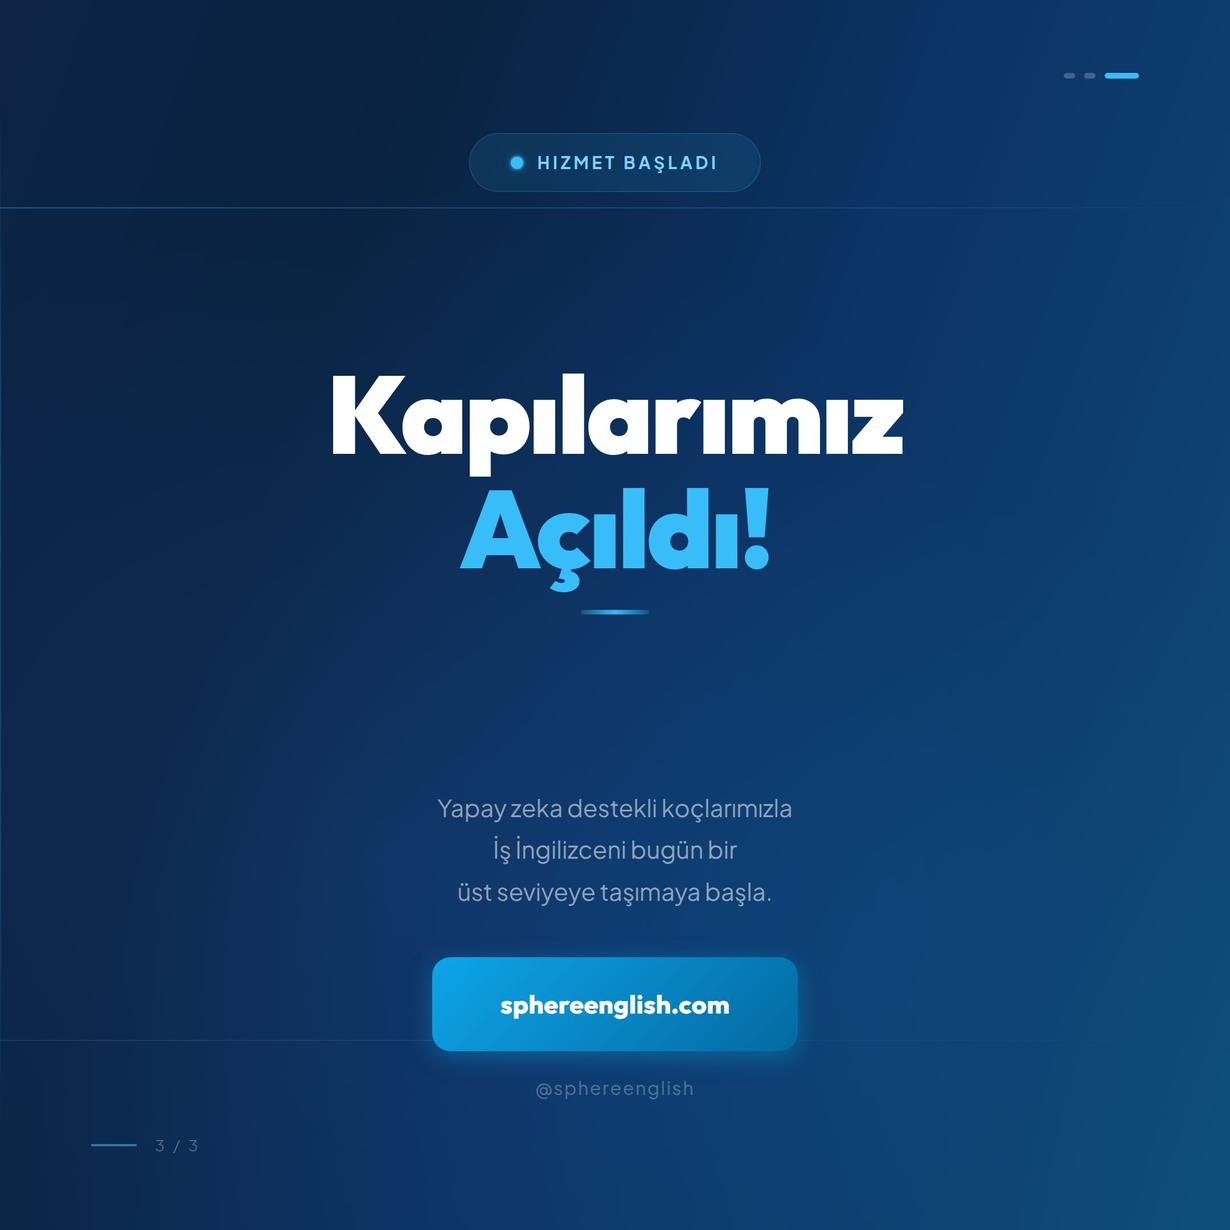
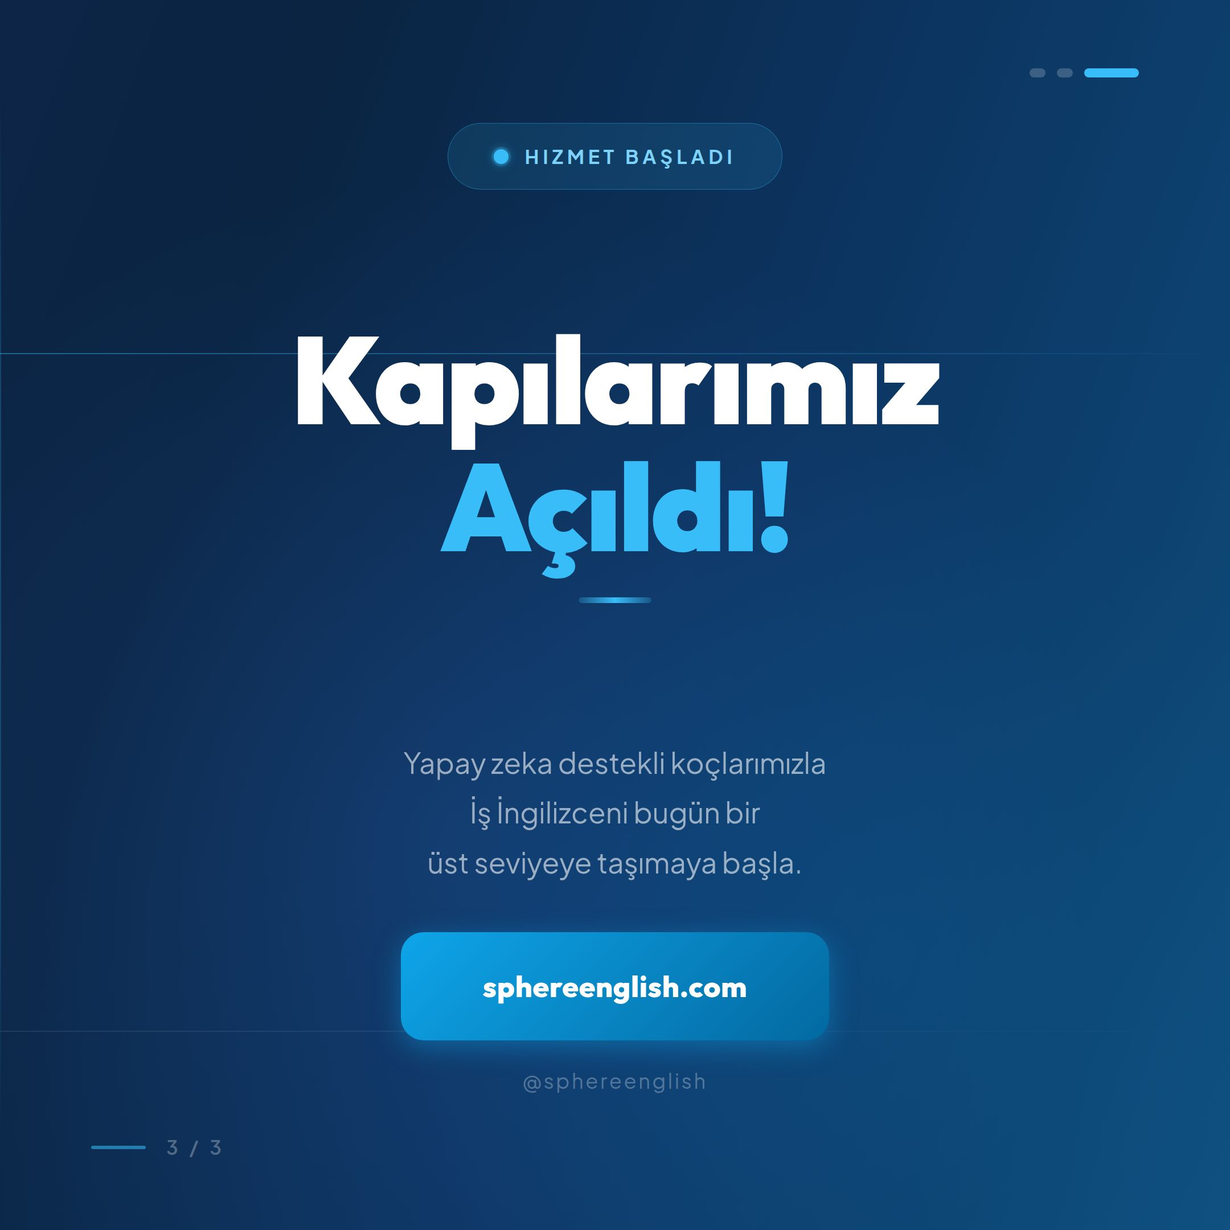
Enhance visual appeal and clarity of all three Instagram post panels
Update component styling and image assets to improve the visibility of logos, adjust font sizes, and refine spacing across all three Instagram post panels, ensuring a more polished and impactful presentation.

Replit-Commit-Author: Agent
Replit-Commit-Session-Id: 7828208e-226c-43ef-9a3e-875997ce7956
Replit-Commit-Checkpoint-Type: full_checkpoint
Replit-Commit-Event-Id: 44ebabdd-7dbf-48dc-a829-ad43afa8b230
Replit-Commit-Screenshot-Url: https://storage.googleapis.com/screenshot-production-us-central1/f780e6cf-cd3b-477f-8b05-3e4b163e7069/7828208e-226c-43ef-9a3e-875997ce7956/HKn518P
Replit-Helium-Checkpoint-Created: true

diff --git a/artifacts/mockup-sandbox/src/components/mockups/instagram-post/TrilogyPost.tsx b/artifacts/mockup-sandbox/src/components/mockups/instagram-post/TrilogyPost.tsx
@@ -2,136 +2,142 @@ const S = 2;
 const px = (n: number) => n * S;
 const W = 1080;
 
-const ACCENT = "#38bdf8";
+const ACCENT  = "#38bdf8";
 const ACCENT2 = "#0ea5e9";
-const WHITE = "#ffffff";
-const MUTED = "rgba(255,255,255,0.55)";
+const WHITE   = "#ffffff";
+const MUTED   = "rgba(255,255,255,0.58)";
 
+/* ── Panel dot indicator ── */
 const PanelDots = ({ current }: { current: number }) => (
-  <div style={{ display: "flex", gap: px(8) }}>
+  <div style={{ display: "flex", gap: px(10), alignItems: "center" }}>
     {[1, 2, 3].map((i) => (
       <div key={i} style={{
-        width: i === current ? px(30) : px(10),
-        height: px(5),
-        borderRadius: px(3),
-        background: i === current ? ACCENT : "rgba(255,255,255,0.22)",
+        width:  i === current ? px(48) : px(14),
+        height: px(8),
+        borderRadius: px(4),
+        background: i === current ? ACCENT : "rgba(255,255,255,0.20)",
       }} />
     ))}
   </div>
 );
 
+/* ── Bottom "N / 3" label ── */
 const BottomLine = ({ n }: { n: number }) => (
-  <div style={{ display: "flex", alignItems: "center", gap: px(16) }}>
-    <div style={{ width: px(40), height: px(2), background: `rgba(56,189,248,0.55)` }} />
+  <div style={{ display: "flex", alignItems: "center", gap: px(18) }}>
+    <div style={{ width: px(48), height: px(3), background: `rgba(56,189,248,0.55)`, borderRadius: px(2) }} />
     <span style={{
-      fontSize: px(14), color: "rgba(255,255,255,0.28)",
-      letterSpacing: "0.18em", textTransform: "uppercase",
-      fontFamily: '"Plus Jakarta Sans", sans-serif',
+      fontSize: px(17), color: "rgba(255,255,255,0.30)",
+      letterSpacing: "0.2em", textTransform: "uppercase",
+      fontFamily: '"Plus Jakarta Sans", sans-serif', fontWeight: 600,
     }}>{n} / 3</span>
   </div>
 );
 
-const Pill = ({ children }: { children: React.ReactNode }) => (
+/* ── Industry tag chip ── */
+const Tag = ({ label }: { label: string }) => (
   <div style={{
-    display: "inline-flex", alignItems: "center", gap: px(10),
-    background: "rgba(56,189,248,0.10)", border: `1px solid rgba(56,189,248,0.30)`,
-    borderRadius: px(100), padding: `${px(12)}px ${px(28)}px`,
-    alignSelf: "flex-start",
-  }}>
-    {children}
-  </div>
+    display: "inline-flex", alignItems: "center",
+    background: "rgba(255,255,255,0.06)",
+    border: "1px solid rgba(255,255,255,0.12)",
+    borderRadius: px(100), padding: `${px(10)}px ${px(22)}px`,
+    fontSize: px(17), fontWeight: 600, color: "rgba(255,255,255,0.50)",
+    fontFamily: '"Plus Jakarta Sans", sans-serif',
+  }}>{label}</div>
 );
 
 export default function TrilogyPost() {
   const params = new URLSearchParams(window.location.search);
-  const panel = parseInt(params.get("panel") || "1");
+  const panel  = parseInt(params.get("panel") || "1");
   const offset = (panel - 1) * px(W);
 
-  const PAD_X = px(80);
-  const PAD_Y = px(64);
+  const PADX = px(80);
+  const PADY = px(60);
 
   const outerPanel: React.CSSProperties = {
     width: px(W), height: px(W), flexShrink: 0,
     display: "flex", flexDirection: "column",
     justifyContent: "space-between",
-    padding: `${PAD_Y}px ${PAD_X}px`,
+    padding: `${PADY}px ${PADX}px`,
     boxSizing: "border-box",
     position: "relative",
   };
 
   return (
-    <div style={{
-      width: px(W),
-      height: px(W),
-      overflow: "hidden",
-      fontFamily: '"Outfit", sans-serif',
-      position: "relative",
-      background: "#040f1e",
-    }}>
-      {/* ── 3-PANEL FULL CANVAS ── */}
+    <div style={{ width: px(W), height: px(W), overflow: "hidden", fontFamily: '"Outfit", sans-serif', position: "relative", background: "#040f1e" }}>
+
+      {/* ════ FULL 3-PANEL CANVAS ════ */}
       <div style={{
-        width: px(W * 3),
-        height: px(W),
-        position: "absolute",
-        left: -offset,
+        width: px(W * 3), height: px(W),
+        position: "absolute", left: -offset,
         display: "flex",
-        background: "linear-gradient(110deg, #050d1c 0%, #0a1c39 22%, #112d58 42%, #0d2448 58%, #092240 70%, #0b3262 82%, #0d4070 92%, #0f4e7a 100%)",
+        background: "linear-gradient(110deg, #060d1e 0%, #0b1e3c 20%, #122e5a 40%, #0e2548 56%, #0a2442 68%, #0c3460 82%, #0d4270 92%, #0f5080 100%)",
       }}>
 
-        {/* ORBS */}
-        <div style={{ position: "absolute", width: px(1800), height: px(1800), borderRadius: "50%", background: "radial-gradient(circle, rgba(14,165,233,0.14) 0%, transparent 58%)", left: px(400), top: px(-500), pointerEvents: "none" }} />
-        <div style={{ position: "absolute", width: px(1400), height: px(1400), borderRadius: "50%", background: "radial-gradient(circle, rgba(59,130,246,0.12) 0%, transparent 60%)", left: px(1800), top: px(50), pointerEvents: "none" }} />
-        <div style={{ position: "absolute", width: px(700), height: px(700), borderRadius: "50%", background: "radial-gradient(circle, rgba(14,165,233,0.09) 0%, transparent 70%)", left: px(-150), top: px(450), pointerEvents: "none" }} />
-        <div style={{ position: "absolute", width: px(900), height: px(900), borderRadius: "50%", background: "radial-gradient(circle, rgba(3,105,161,0.13) 0%, transparent 65%)", right: px(-150), bottom: px(-200), pointerEvents: "none" }} />
+        {/* ── DECORATIVE ORBS ── */}
+        <div style={{ position:"absolute", width:px(1800), height:px(1800), borderRadius:"50%", background:"radial-gradient(circle, rgba(14,165,233,0.18) 0%, transparent 58%)", left:px(380), top:px(-520), pointerEvents:"none" }} />
+        <div style={{ position:"absolute", width:px(1400), height:px(1400), borderRadius:"50%", background:"radial-gradient(circle, rgba(59,130,246,0.16) 0%, transparent 58%)", left:px(1850), top:px(30), pointerEvents:"none" }} />
+        <div style={{ position:"absolute", width:px(800),  height:px(800),  borderRadius:"50%", background:"radial-gradient(circle, rgba(14,165,233,0.12) 0%, transparent 68%)", left:px(-180), top:px(480), pointerEvents:"none" }} />
+        <div style={{ position:"absolute", width:px(1000), height:px(1000), borderRadius:"50%", background:"radial-gradient(circle, rgba(3,105,161,0.18) 0%, transparent 62%)", right:px(-180), bottom:px(-250), pointerEvents:"none" }} />
 
-        {/* CONTINUOUS ACCENT LINE */}
-        <div style={{ position: "absolute", left: 0, right: 0, top: px(182), height: px(1), background: "linear-gradient(to right, transparent, rgba(56,189,248,0.15) 10%, rgba(56,189,248,0.45) 45%, rgba(56,189,248,0.45) 55%, rgba(56,189,248,0.15) 90%, transparent)", pointerEvents: "none" }} />
-        <div style={{ position: "absolute", left: 0, right: 0, bottom: px(166), height: px(1), background: "linear-gradient(to right, transparent, rgba(255,255,255,0.06) 20%, rgba(255,255,255,0.10) 50%, rgba(255,255,255,0.06) 80%, transparent)", pointerEvents: "none" }} />
+        {/* ── CONTINUOUS TOP ACCENT LINE ── */}
+        <div style={{ position:"absolute", left:0, right:0, top:px(310), height:px(1), background:"linear-gradient(to right, transparent, rgba(56,189,248,0.18) 8%, rgba(56,189,248,0.5) 42%, rgba(56,189,248,0.5) 58%, rgba(56,189,248,0.18) 92%, transparent)", pointerEvents:"none" }} />
+        {/* ── BOTTOM ACCENT LINE ── */}
+        <div style={{ position:"absolute", left:0, right:0, bottom:px(174), height:px(1), background:"linear-gradient(to right, transparent, rgba(255,255,255,0.06) 18%, rgba(255,255,255,0.11) 50%, rgba(255,255,255,0.06) 82%, transparent)", pointerEvents:"none" }} />
 
-        {/* SEAM LINES */}
-        {[W, W * 2].map((pos) => (
-          <div key={pos} style={{ position: "absolute", left: px(pos), top: px(80), bottom: px(80), width: px(1), background: "linear-gradient(to bottom, transparent, rgba(56,189,248,0.20) 30%, rgba(56,189,248,0.20) 70%, transparent)", pointerEvents: "none" }} />
+        {/* ── VERTICAL SEAM LINES ── */}
+        {[W, W*2].map(pos => (
+          <div key={pos} style={{ position:"absolute", left:px(pos), top:px(80), bottom:px(80), width:px(1), background:"linear-gradient(to bottom, transparent, rgba(56,189,248,0.22) 28%, rgba(56,189,248,0.22) 72%, transparent)", pointerEvents:"none" }} />
         ))}
 
 
-        {/* ═══════════════════════════════
+        {/* ══════════════════════════════════════
             PANEL 1 — PLATFORM TANITIM
-        ═══════════════════════════════ */}
+        ══════════════════════════════════════ */}
         <div style={outerPanel}>
 
-          {/* ZONE 1 — TOP */}
+          {/* TOP: logo + dots + badge */}
           <div>
-            <div style={{ display: "flex", justifyContent: "space-between", alignItems: "center", marginBottom: px(36) }}>
+            {/* Logo row */}
+            <div style={{ display:"flex", justifyContent:"space-between", alignItems:"center", marginBottom:px(32) }}>
               <img src="/images/logo-full.png" alt="Sphere English"
-                style={{ height: px(58), width: "auto", filter: "brightness(0) invert(1)", objectFit: "contain", objectPosition: "left" }}
+                style={{ height:px(160), width:"auto", filter:"brightness(0) invert(1)", objectFit:"contain", objectPosition:"left" }}
               />
               <PanelDots current={1} />
             </div>
-            <Pill>
-              <div style={{ width: px(8), height: px(8), borderRadius: "50%", background: ACCENT }} />
-              <span style={{ fontSize: px(14), fontWeight: 700, letterSpacing: "0.18em", color: "#7dd3fc", textTransform: "uppercase", fontFamily: '"Plus Jakarta Sans", sans-serif' }}>
+
+            {/* Eyebrow badge */}
+            <div style={{
+              display:"inline-flex", alignItems:"center", gap:px(12),
+              background:"rgba(56,189,248,0.12)", border:"1px solid rgba(56,189,248,0.35)",
+              borderRadius:px(100), padding:`${px(14)}px ${px(30)}px`,
+            }}>
+              <div style={{ width:px(10), height:px(10), borderRadius:"50%", background:ACCENT, boxShadow:`0 0 8px ${ACCENT}` }} />
+              <span style={{ fontSize:px(17), fontWeight:700, letterSpacing:"0.18em", color:"#7dd3fc", textTransform:"uppercase", fontFamily:'"Plus Jakarta Sans", sans-serif' }}>
                 Türkiye'nin İlki
               </span>
-            </Pill>
+            </div>
           </div>
 
-          {/* ZONE 2 — HEADLINE */}
+          {/* MIDDLE: headline */}
           <div>
-            <div style={{ fontSize: px(96), fontWeight: 900, lineHeight: 0.92, color: WHITE, letterSpacing: "-0.025em", marginBottom: px(12) }}>
+            <div style={{ fontSize:px(108), fontWeight:900, lineHeight:0.90, color:WHITE, letterSpacing:"-0.025em", marginBottom:px(14) }}>
               İş İngilizcesi
             </div>
-            <div style={{ fontSize: px(96), fontWeight: 900, lineHeight: 0.92, color: ACCENT, letterSpacing: "-0.025em", marginBottom: px(28) }}>
+            <div style={{ fontSize:px(108), fontWeight:900, lineHeight:0.90, color:ACCENT, letterSpacing:"-0.025em", marginBottom:px(32) }}>
               Platformu
             </div>
-            <div style={{ width: px(60), height: px(4), background: `linear-gradient(to right, ${ACCENT}, rgba(56,189,248,0.15))`, borderRadius: px(2) }} />
+            <div style={{ width:px(64), height:px(5), background:`linear-gradient(to right, ${ACCENT}, rgba(56,189,248,0.15))`, borderRadius:px(3) }} />
           </div>
 
-          {/* ZONE 3 — BOTTOM */}
+          {/* BOTTOM: desc + tags + label */}
           <div>
-            <div style={{ fontSize: px(22), color: MUTED, lineHeight: 1.75, fontFamily: '"Plus Jakarta Sans", sans-serif', marginBottom: px(36) }}>
-              Gerçek sektör uzmanlarından ilham alan<br />
-              12 yapay zeka koçuyla iş dünyasının<br />
-              her sahnesinde güçlü konuş.
+            <div style={{ fontSize:px(25), color:MUTED, lineHeight:1.75, fontFamily:'"Plus Jakarta Sans", sans-serif', marginBottom:px(32) }}>
+              Gerçek sektör uzmanlarından ilham alan 12 yapay<br />
+              zeka koçuyla iş dünyasının her sahnesinde<br />
+              güçlü ve akıcı konuş.
+            </div>
+            <div style={{ display:"flex", gap:px(14), flexWrap:"wrap", marginBottom:px(36) }}>
+              {["Finans","Hukuk","İK","Teknoloji","Sağlık"].map(t => <Tag key={t} label={t} />)}
             </div>
             <BottomLine n={1} />
           </div>
@@ -139,110 +145,116 @@ export default function TrilogyPost() {
         </div>
 
 
-        {/* ═══════════════════════════════
+        {/* ══════════════════════════════════════
             PANEL 2 — FEATURES
-        ═══════════════════════════════ */}
-        <div style={outerPanel}>
+        ══════════════════════════════════════ */}
+        <div style={{ ...outerPanel, justifyContent:"flex-start" }}>
 
-          {/* ZONE 1 — TOP */}
-          <div>
-            <div style={{ display: "flex", justifyContent: "flex-end", marginBottom: px(48) }}>
-              <PanelDots current={2} />
-            </div>
-            <div style={{ fontSize: px(14), fontWeight: 700, letterSpacing: "0.2em", color: ACCENT, textTransform: "uppercase", fontFamily: '"Plus Jakarta Sans", sans-serif', marginBottom: px(18) }}>
+          {/* Logo row */}
+          <div style={{ display:"flex", justifyContent:"space-between", alignItems:"center", marginBottom:px(36) }}>
+            <img src="/images/logo-full.png" alt="Sphere English"
+              style={{ height:px(120), width:"auto", filter:"brightness(0) invert(1)", objectFit:"contain", objectPosition:"left", opacity:0.85 }}
+            />
+            <PanelDots current={2} />
+          </div>
+
+          {/* Eyebrow + headline */}
+          <div style={{ marginBottom:px(48) }}>
+            <div style={{ fontSize:px(17), fontWeight:700, letterSpacing:"0.2em", color:ACCENT, textTransform:"uppercase", fontFamily:'"Plus Jakarta Sans", sans-serif', marginBottom:px(18) }}>
               Nasıl Çalışır?
             </div>
-            <div style={{ fontSize: px(52), fontWeight: 800, color: WHITE, lineHeight: 1.1, letterSpacing: "-0.01em" }}>
+            <div style={{ fontSize:px(72), fontWeight:800, color:WHITE, lineHeight:1.05, letterSpacing:"-0.015em" }}>
               Her ihtiyaca özel<br />
-              <span style={{ color: ACCENT }}>bir koç seni bekliyor</span>
+              <span style={{ color:ACCENT }}>bir koç seni bekliyor</span>
             </div>
           </div>
 
-          {/* ZONE 2 — FEATURES */}
-          <div style={{ display: "flex", flexDirection: "column", gap: 0 }}>
+          {/* Divider */}
+          <div style={{ width:"100%", height:px(1), background:"rgba(56,189,248,0.25)", marginBottom:px(20) }} />
+
+          {/* Stats — flex:1 fills remaining space */}
+          <div style={{ flex:1, display:"flex", flexDirection:"column", justifyContent:"space-evenly" }}>
             {[
-              { num: "12", label: "AI Koç", desc: "CEO'dan doktora, her sektörden uzman" },
-              { num: "7/24", label: "Kesintisiz Pratik", desc: "İstediğin zaman, istediğin konuda" },
-              { num: "∞", label: "Gerçekçi Senaryo", desc: "Toplantı, sunum, müzakere, e-posta…" },
-            ].map((f, idx) => (
-              <div key={f.num} style={{
-                display: "flex", alignItems: "center", gap: px(28),
-                padding: `${px(26)}px 0`,
-                borderBottom: idx < 2 ? "1px solid rgba(255,255,255,0.09)" : "none",
-              }}>
-                <div style={{ fontSize: px(54), fontWeight: 900, color: ACCENT2, minWidth: px(140), lineHeight: 1, fontVariantNumeric: "tabular-nums" }}>
-                  {f.num}
+              { num:"12",   label:"AI Koç",             desc:"CEO'dan doktora, her sektörden uzman" },
+              { num:"7/24", label:"Kesintisiz Pratik",   desc:"İstediğin zaman, istediğin konuda"   },
+              { num:"∞",    label:"Gerçekçi Senaryo",   desc:"Toplantı, sunum, müzakere, e-posta…", big:true },
+            ].map((f: any, idx: number) => (
+              <div key={f.num}>
+                <div style={{ display:"flex", alignItems:"center", gap:px(30), padding:`${px(22)}px 0` }}>
+                  <div style={{ fontSize: f.big ? px(90) : px(72), fontWeight:900, color:ACCENT2, minWidth:px(176), lineHeight:1, fontVariantNumeric:"tabular-nums" }}>
+                    {f.num}
+                  </div>
+                  <div>
+                    <div style={{ fontSize:px(30), fontWeight:700, color:WHITE, marginBottom:px(8) }}>{f.label}</div>
+                    <div style={{ fontSize:px(21), color:"rgba(255,255,255,0.52)", fontFamily:'"Plus Jakarta Sans", sans-serif' }}>{f.desc}</div>
+                  </div>
                 </div>
-                <div>
-                  <div style={{ fontSize: px(24), fontWeight: 700, color: WHITE, marginBottom: px(5) }}>{f.label}</div>
-                  <div style={{ fontSize: px(17), color: "rgba(255,255,255,0.48)", fontFamily: '"Plus Jakarta Sans", sans-serif' }}>{f.desc}</div>
-                </div>
+                {idx < 2 && <div style={{ width:"100%", height:px(1), background:"rgba(255,255,255,0.08)" }} />}
               </div>
             ))}
           </div>
 
-          {/* ZONE 3 — BOTTOM */}
-          <div>
-            <div style={{ width: "100%", height: px(1), background: "rgba(255,255,255,0.08)", marginBottom: px(32) }} />
+          {/* Bottom line */}
+          <div style={{ paddingTop:px(24) }}>
             <BottomLine n={2} />
           </div>
 
         </div>
 
 
-        {/* ═══════════════════════════════
+        {/* ══════════════════════════════════════
             PANEL 3 — LAUNCH
-        ═══════════════════════════════ */}
-        <div style={{ ...outerPanel, alignItems: "center", textAlign: "center" }}>
+        ══════════════════════════════════════ */}
+        <div style={{ ...outerPanel, alignItems:"center", textAlign:"center" }}>
 
-          {/* ZONE 1 — TOP */}
-          <div style={{ width: "100%", display: "flex", flexDirection: "column", alignItems: "center" }}>
-            <div style={{ display: "flex", justifyContent: "flex-end", width: "100%", marginBottom: px(48) }}>
+          {/* TOP: dots + live badge */}
+          <div style={{ width:"100%", display:"flex", flexDirection:"column", alignItems:"center" }}>
+            <div style={{ display:"flex", justifyContent:"flex-end", width:"100%", marginBottom:px(40) }}>
               <PanelDots current={3} />
             </div>
-            {/* Live badge */}
             <div style={{
-              display: "inline-flex", alignItems: "center", gap: px(12),
-              background: "rgba(56,189,248,0.10)", border: `1px solid rgba(56,189,248,0.32)`,
-              borderRadius: px(100), padding: `${px(14)}px ${px(36)}px`,
+              display:"inline-flex", alignItems:"center", gap:px(14),
+              background:"rgba(56,189,248,0.12)", border:"1px solid rgba(56,189,248,0.36)",
+              borderRadius:px(100), padding:`${px(16)}px ${px(40)}px`,
             }}>
-              <div style={{ width: px(11), height: px(11), borderRadius: "50%", background: ACCENT, boxShadow: `0 0 0 3px rgba(56,189,248,0.22), 0 0 14px rgba(56,189,248,0.55)` }} />
-              <span style={{ fontSize: px(15), fontWeight: 700, letterSpacing: "0.18em", color: "#7dd3fc", textTransform: "uppercase", fontFamily: '"Plus Jakarta Sans", sans-serif' }}>
+              <div style={{ width:px(13), height:px(13), borderRadius:"50%", background:ACCENT, boxShadow:`0 0 0 4px rgba(56,189,248,0.22), 0 0 16px rgba(56,189,248,0.6)` }} />
+              <span style={{ fontSize:px(17), fontWeight:700, letterSpacing:"0.2em", color:"#7dd3fc", textTransform:"uppercase", fontFamily:'"Plus Jakarta Sans", sans-serif' }}>
                 Hizmet Başladı
               </span>
             </div>
           </div>
 
-          {/* ZONE 2 — HEADLINE */}
+          {/* MIDDLE: headline */}
           <div>
-            <div style={{ fontSize: px(96), fontWeight: 900, lineHeight: 0.92, color: WHITE, letterSpacing: "-0.025em", marginBottom: px(12) }}>
+            <div style={{ fontSize:px(108), fontWeight:900, lineHeight:0.90, color:WHITE, letterSpacing:"-0.025em", marginBottom:px(14) }}>
               Kapılarımız
             </div>
-            <div style={{ fontSize: px(96), fontWeight: 900, lineHeight: 0.92, color: ACCENT, letterSpacing: "-0.025em", marginBottom: px(28) }}>
+            <div style={{ fontSize:px(108), fontWeight:900, lineHeight:0.90, color:ACCENT, letterSpacing:"-0.025em", marginBottom:px(32) }}>
               Açıldı!
             </div>
-            <div style={{ width: px(60), height: px(4), background: `linear-gradient(to right, rgba(56,189,248,0.2), ${ACCENT}, rgba(56,189,248,0.2))`, borderRadius: px(2), margin: "0 auto" }} />
+            <div style={{ width:px(64), height:px(5), background:`linear-gradient(to right, rgba(56,189,248,0.2), ${ACCENT}, rgba(56,189,248,0.2))`, borderRadius:px(3), margin:"0 auto" }} />
           </div>
 
-          {/* ZONE 3 — BOTTOM */}
-          <div style={{ display: "flex", flexDirection: "column", alignItems: "center", width: "100%" }}>
-            <div style={{ fontSize: px(21), color: MUTED, lineHeight: 1.75, fontFamily: '"Plus Jakarta Sans", sans-serif', marginBottom: px(40) }}>
+          {/* BOTTOM: sub + CTA + handle */}
+          <div style={{ display:"flex", flexDirection:"column", alignItems:"center", width:"100%" }}>
+            <div style={{ fontSize:px(25), color:MUTED, lineHeight:1.75, fontFamily:'"Plus Jakarta Sans", sans-serif', marginBottom:px(40) }}>
               Yapay zeka destekli koçlarımızla<br />
               İş İngilizceni bugün bir<br />
               üst seviyeye taşımaya başla.
             </div>
             <div style={{
-              background: `linear-gradient(135deg, ${ACCENT2} 0%, #0369a1 100%)`,
-              borderRadius: px(16), padding: `${px(24)}px ${px(60)}px`,
-              fontSize: px(23), fontWeight: 800, color: WHITE,
-              boxShadow: "0 10px 40px rgba(14,165,233,0.38)", marginBottom: px(20),
+              background:`linear-gradient(135deg, ${ACCENT2} 0%, #0369a1 100%)`,
+              borderRadius:px(20), padding:`${px(28)}px ${px(72)}px`,
+              fontSize:px(26), fontWeight:800, color:WHITE,
+              boxShadow:"0 12px 48px rgba(14,165,233,0.42)", marginBottom:px(22),
+              letterSpacing:"0.01em",
             }}>
               sphereenglish.com
             </div>
-            <div style={{ fontSize: px(16), color: "rgba(255,255,255,0.30)", fontFamily: '"Plus Jakarta Sans", sans-serif', letterSpacing: "0.08em", marginBottom: px(28) }}>
+            <div style={{ fontSize:px(18), color:"rgba(255,255,255,0.30)", fontFamily:'"Plus Jakarta Sans", sans-serif', letterSpacing:"0.1em", marginBottom:px(32) }}>
               @sphereenglish
             </div>
-            <div style={{ alignSelf: "flex-start" }}>
+            <div style={{ alignSelf:"flex-start" }}>
               <BottomLine n={3} />
             </div>
           </div>
